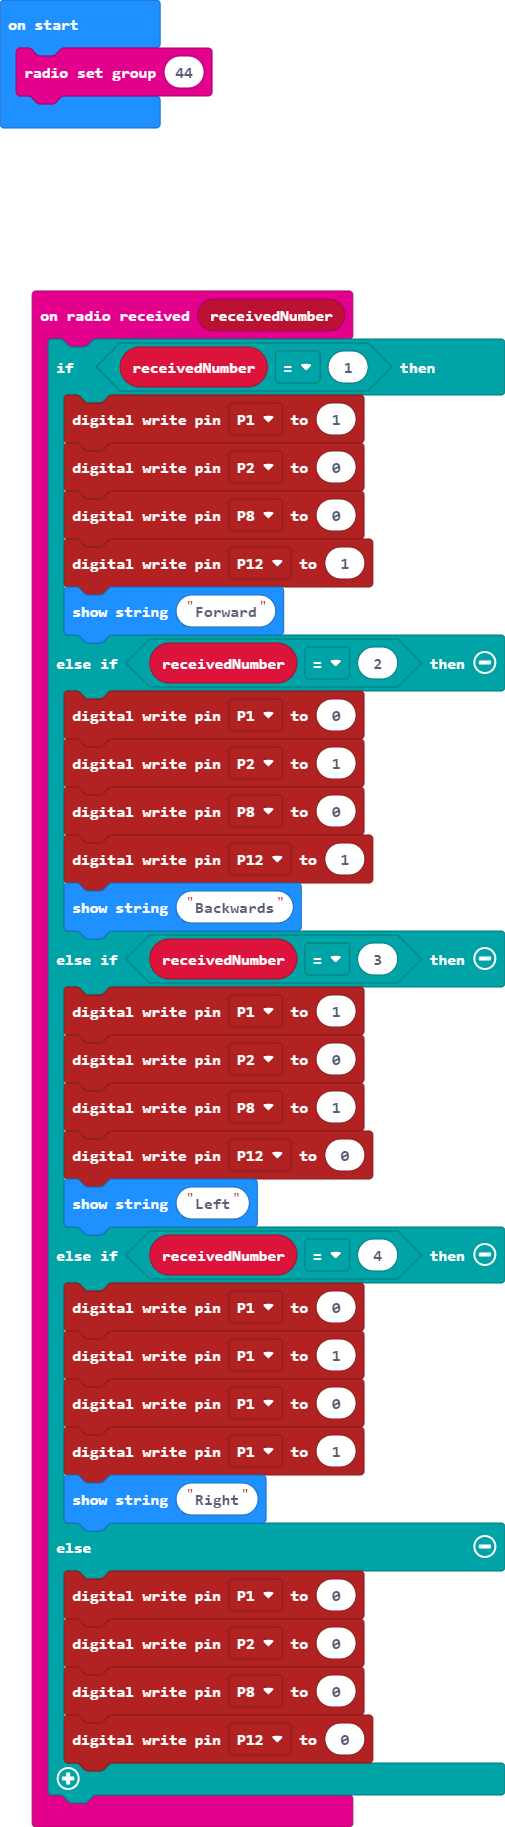
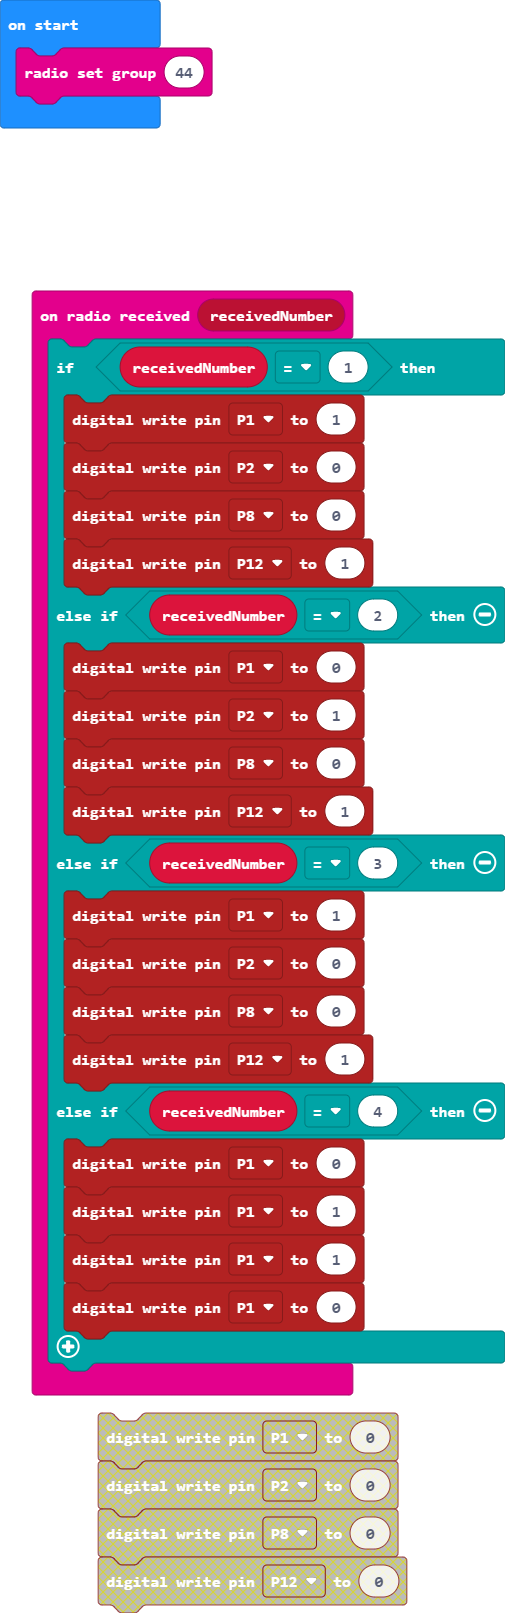
show removed

diff --git a/main.ts b/main.ts
@@ -4,30 +4,21 @@ radio.onReceivedNumber(function (receivedNumber) {
         pins.digitalWritePin(DigitalPin.P2, 0)
         pins.digitalWritePin(DigitalPin.P8, 0)
         pins.digitalWritePin(DigitalPin.P12, 1)
-        basic.showString("Forward")
     } else if (receivedNumber == 2) {
         pins.digitalWritePin(DigitalPin.P1, 0)
         pins.digitalWritePin(DigitalPin.P2, 1)
         pins.digitalWritePin(DigitalPin.P8, 0)
         pins.digitalWritePin(DigitalPin.P12, 1)
-        basic.showString("Backwards")
     } else if (receivedNumber == 3) {
         pins.digitalWritePin(DigitalPin.P1, 1)
         pins.digitalWritePin(DigitalPin.P2, 0)
-        pins.digitalWritePin(DigitalPin.P8, 1)
-        pins.digitalWritePin(DigitalPin.P12, 0)
-        basic.showString("Left")
+        pins.digitalWritePin(DigitalPin.P8, 0)
+        pins.digitalWritePin(DigitalPin.P12, 1)
     } else if (receivedNumber == 4) {
         pins.digitalWritePin(DigitalPin.P1, 0)
         pins.digitalWritePin(DigitalPin.P1, 1)
-        pins.digitalWritePin(DigitalPin.P1, 0)
         pins.digitalWritePin(DigitalPin.P1, 1)
-        basic.showString("Right")
-    } else {
         pins.digitalWritePin(DigitalPin.P1, 0)
-        pins.digitalWritePin(DigitalPin.P2, 0)
-        pins.digitalWritePin(DigitalPin.P8, 0)
-        pins.digitalWritePin(DigitalPin.P12, 0)
     }
 })
 radio.setGroup(44)
